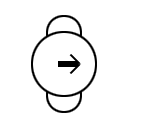
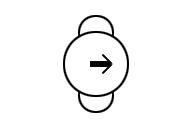
Fixed the bounding box on the character

Changed region(s): [[0.1875, 0.0938, 0.6875, 0.9062]]

diff --git a/AvenueJS/Scripts/ts/Entity/character.ts b/AvenueJS/Scripts/ts/Entity/character.ts
@@ -23,10 +23,6 @@
 
 		this.sprite.addChild(this.pistol.sprite);
 
-		this.sprite.anchor.setTo(2 / 5, 0.5);
-		this.pistol.sprite.anchor.setTo(2/5, 0.5);
-
-
 		this.currentWeapon = this.pistol;
 	}
 }
